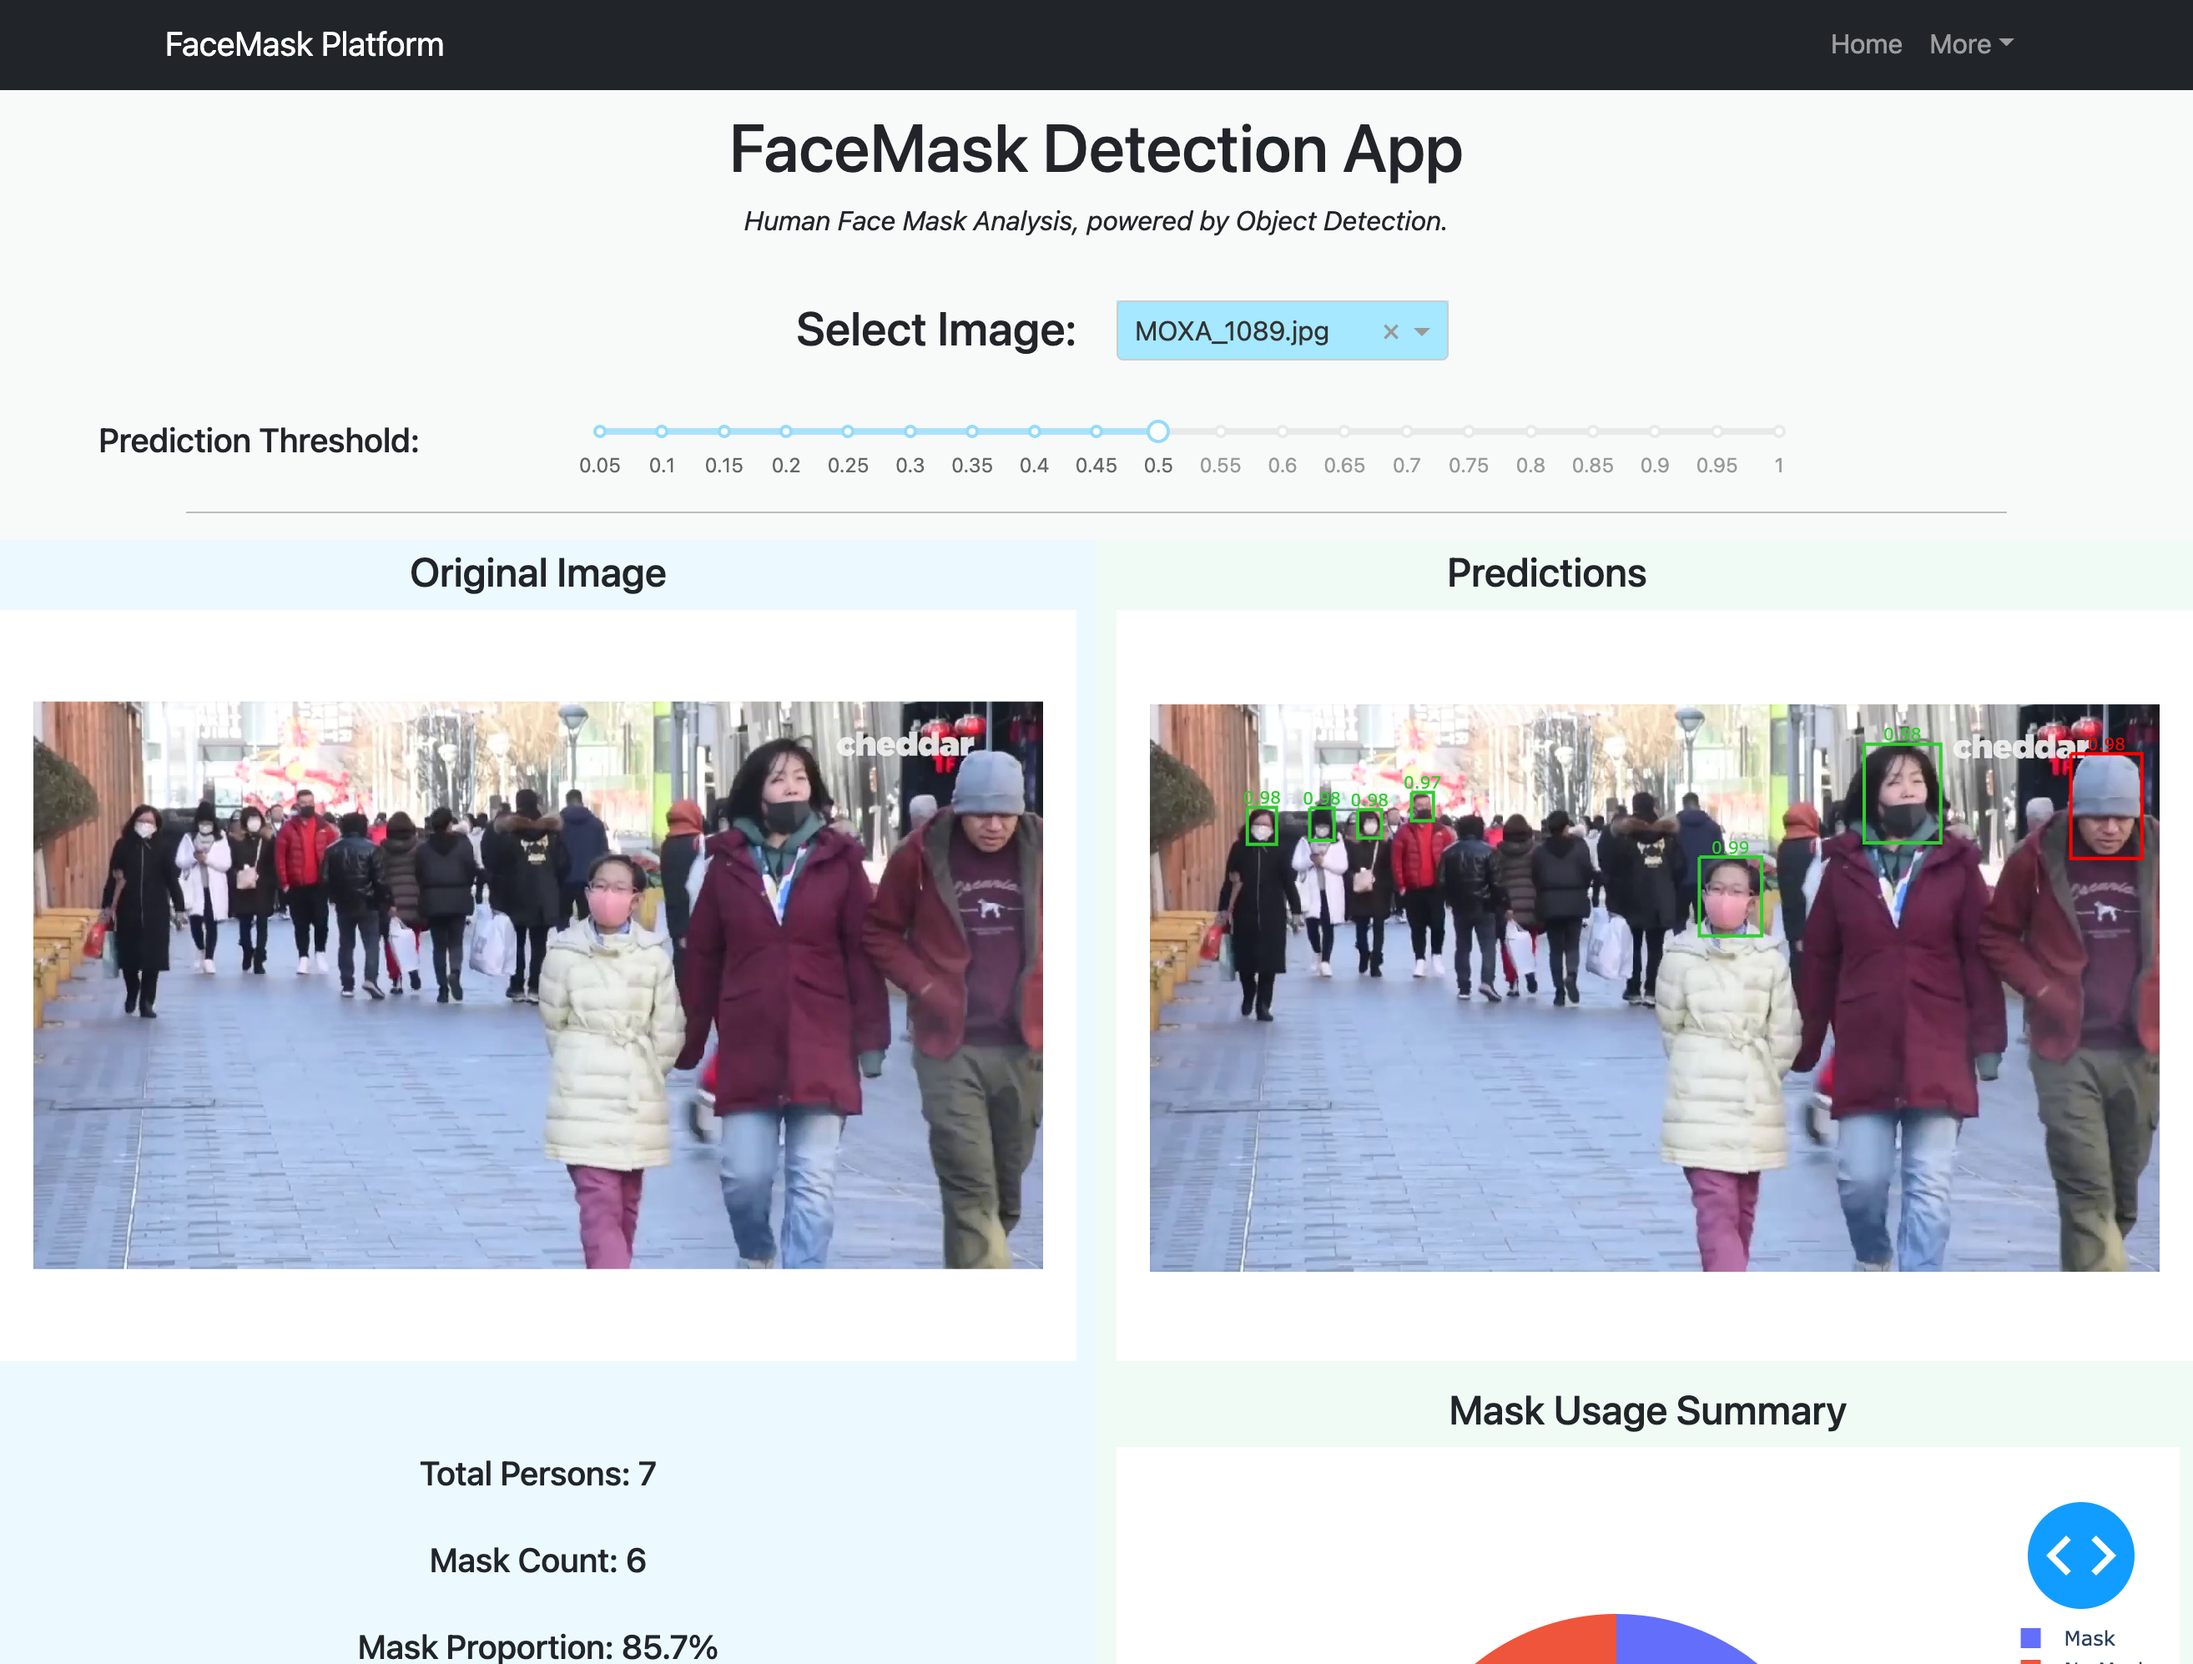
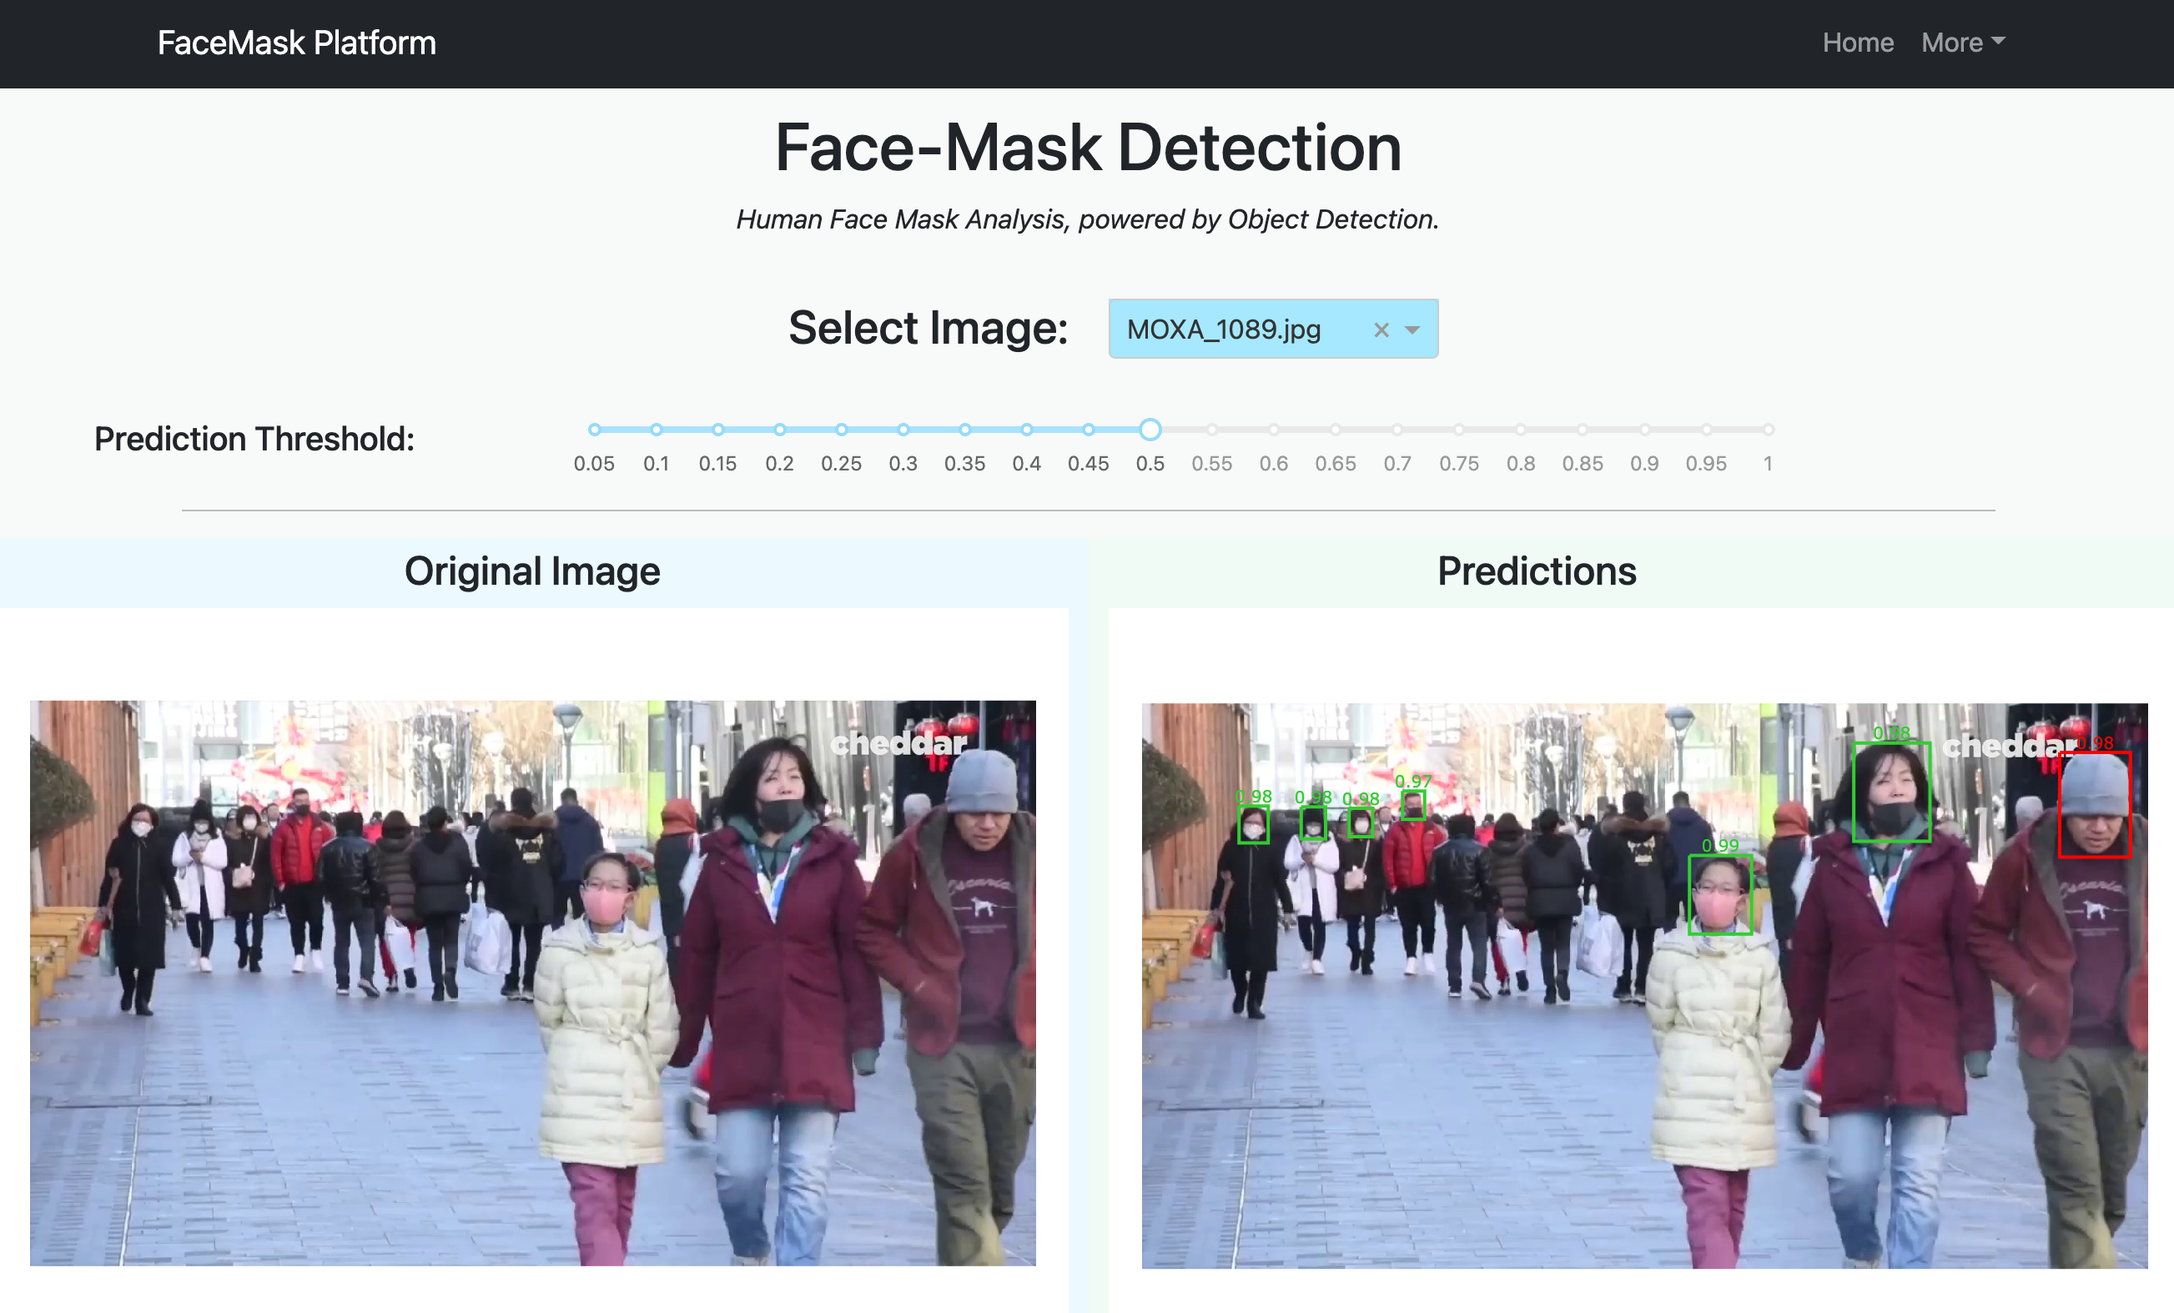
Changed title of application in inference_dashboard.py, and updated example images of the application displayed within the README.

diff --git a/inference_dashboard.py b/inference_dashboard.py
@@ -115,7 +115,7 @@ app.layout = html.Div(
         # app title
         dbc.Row([
                 html.Div([
-                    html.H1("FaceMask Detection App"),
+                    html.H1("Face-Mask Detection"),
                     dcc.Markdown(''' 
                         *Human Face Mask Analysis, powered by Object Detection.*
                         '''),
